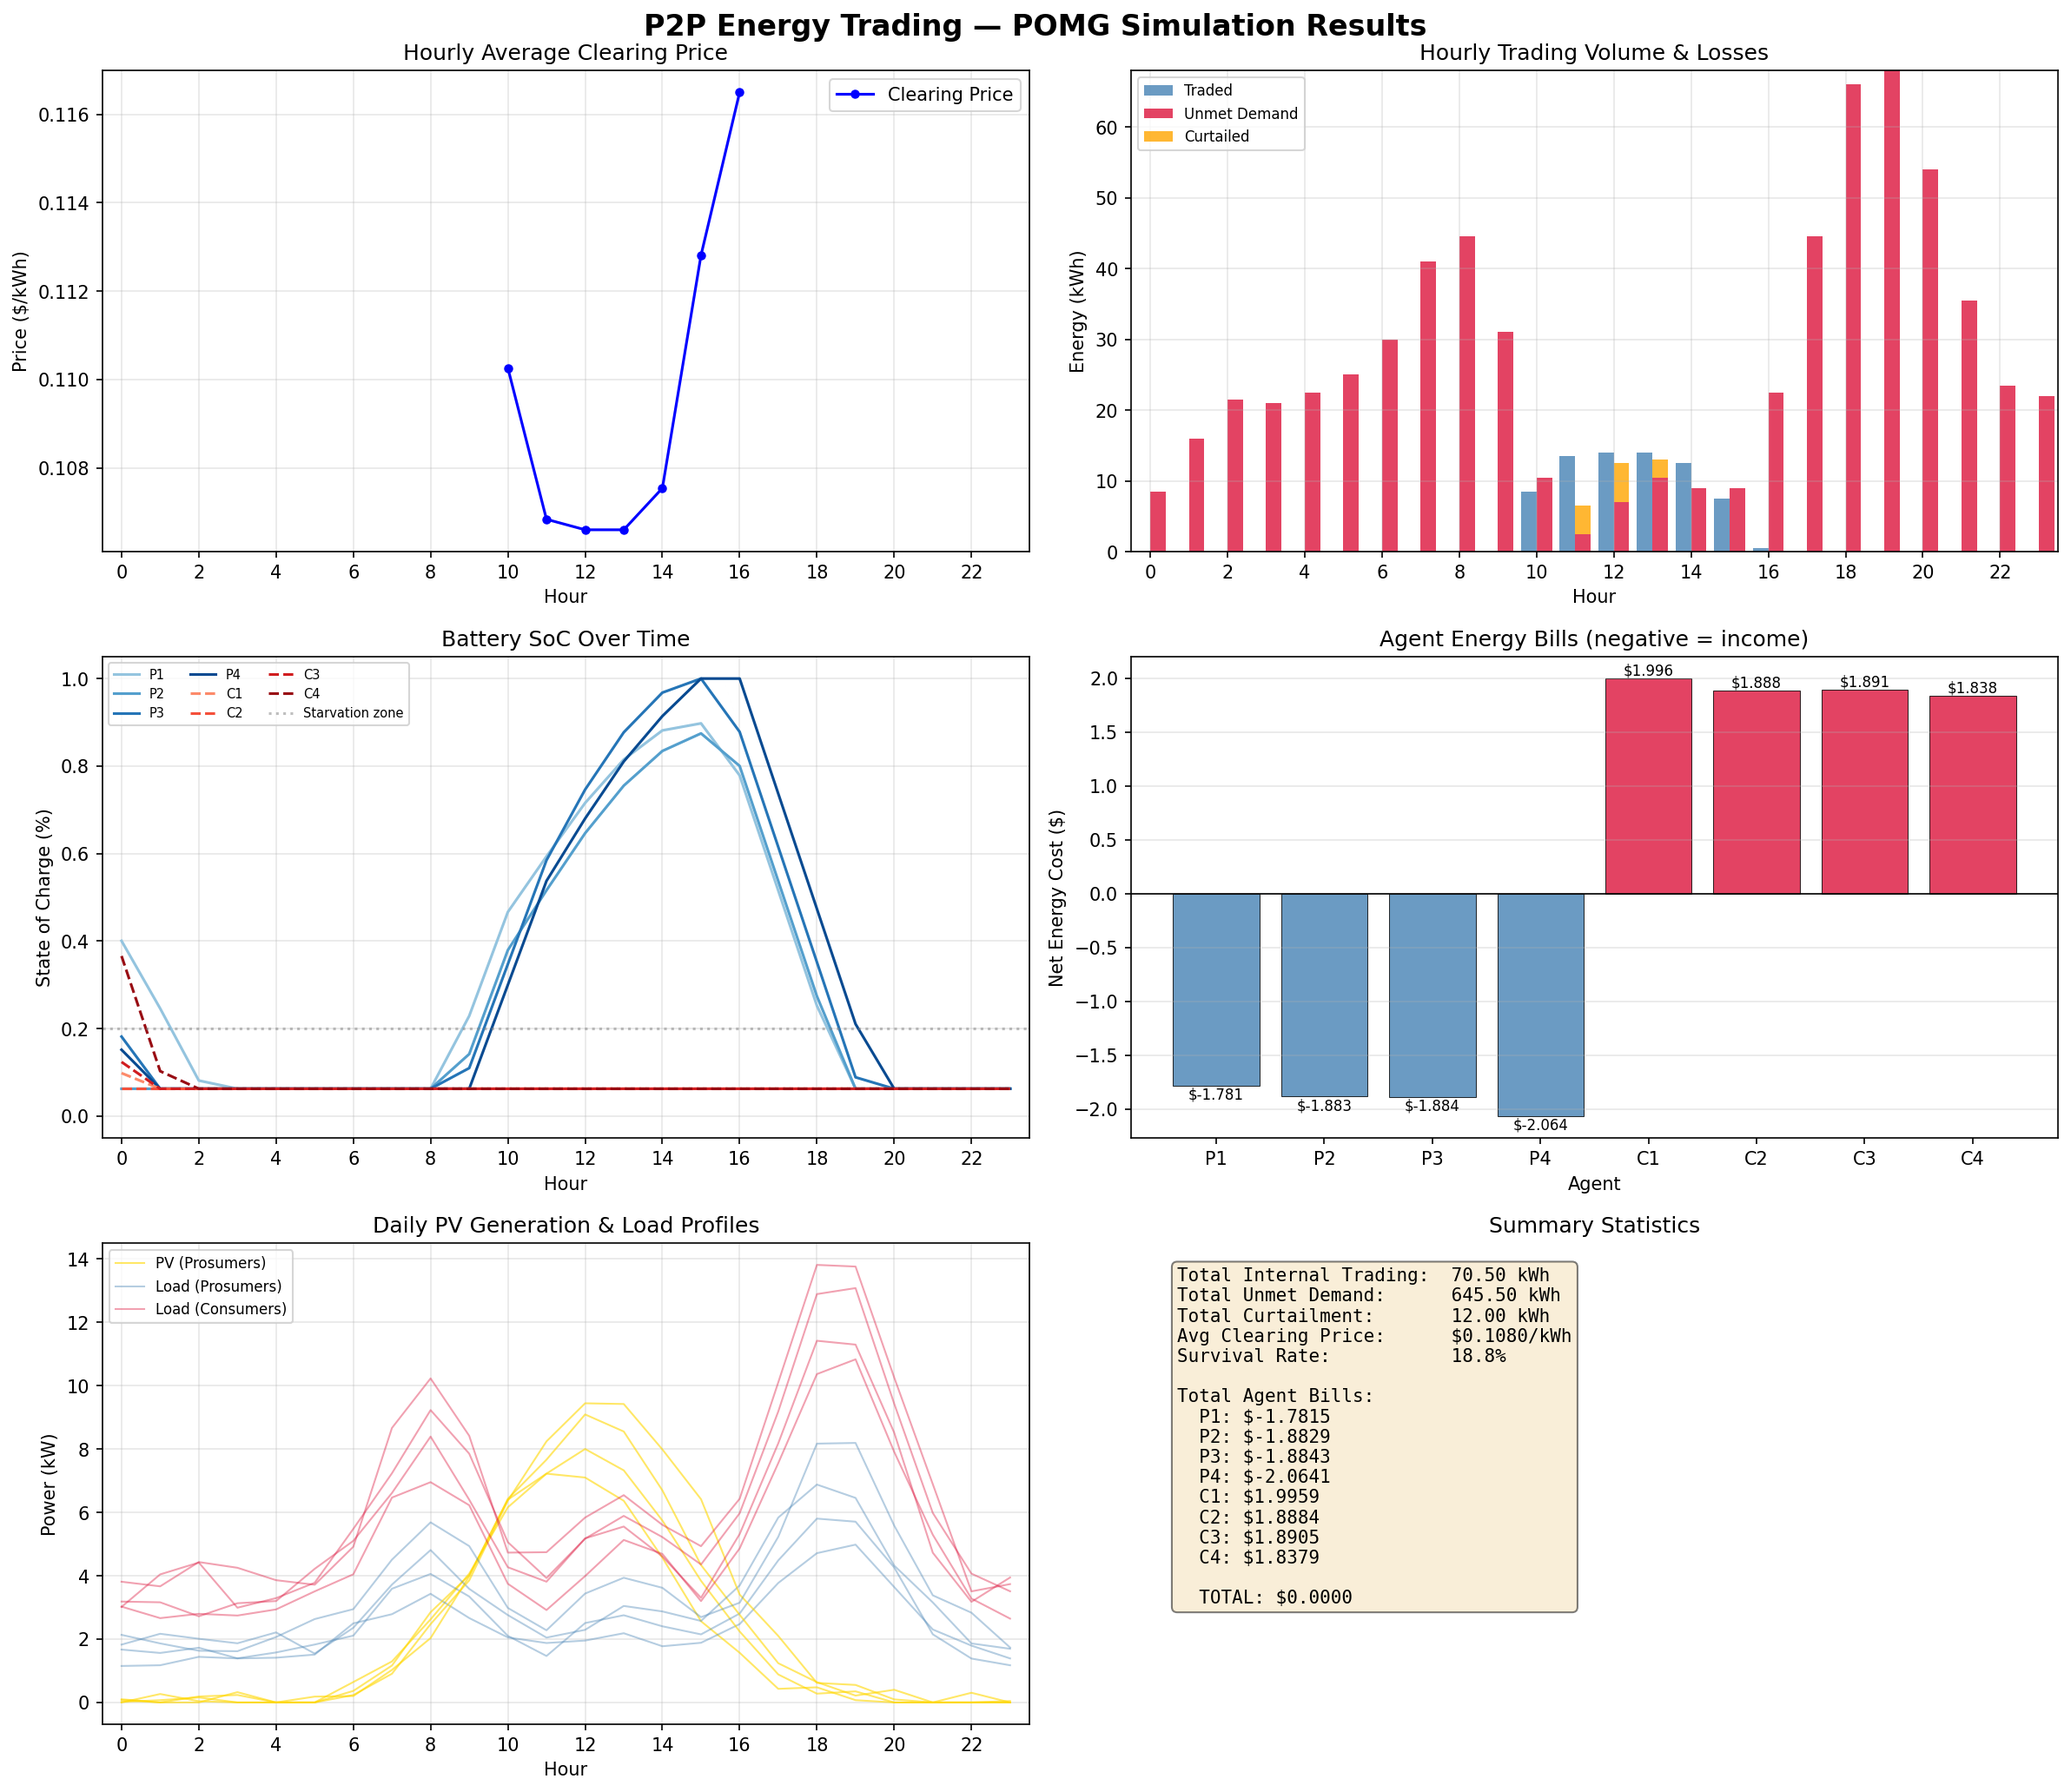
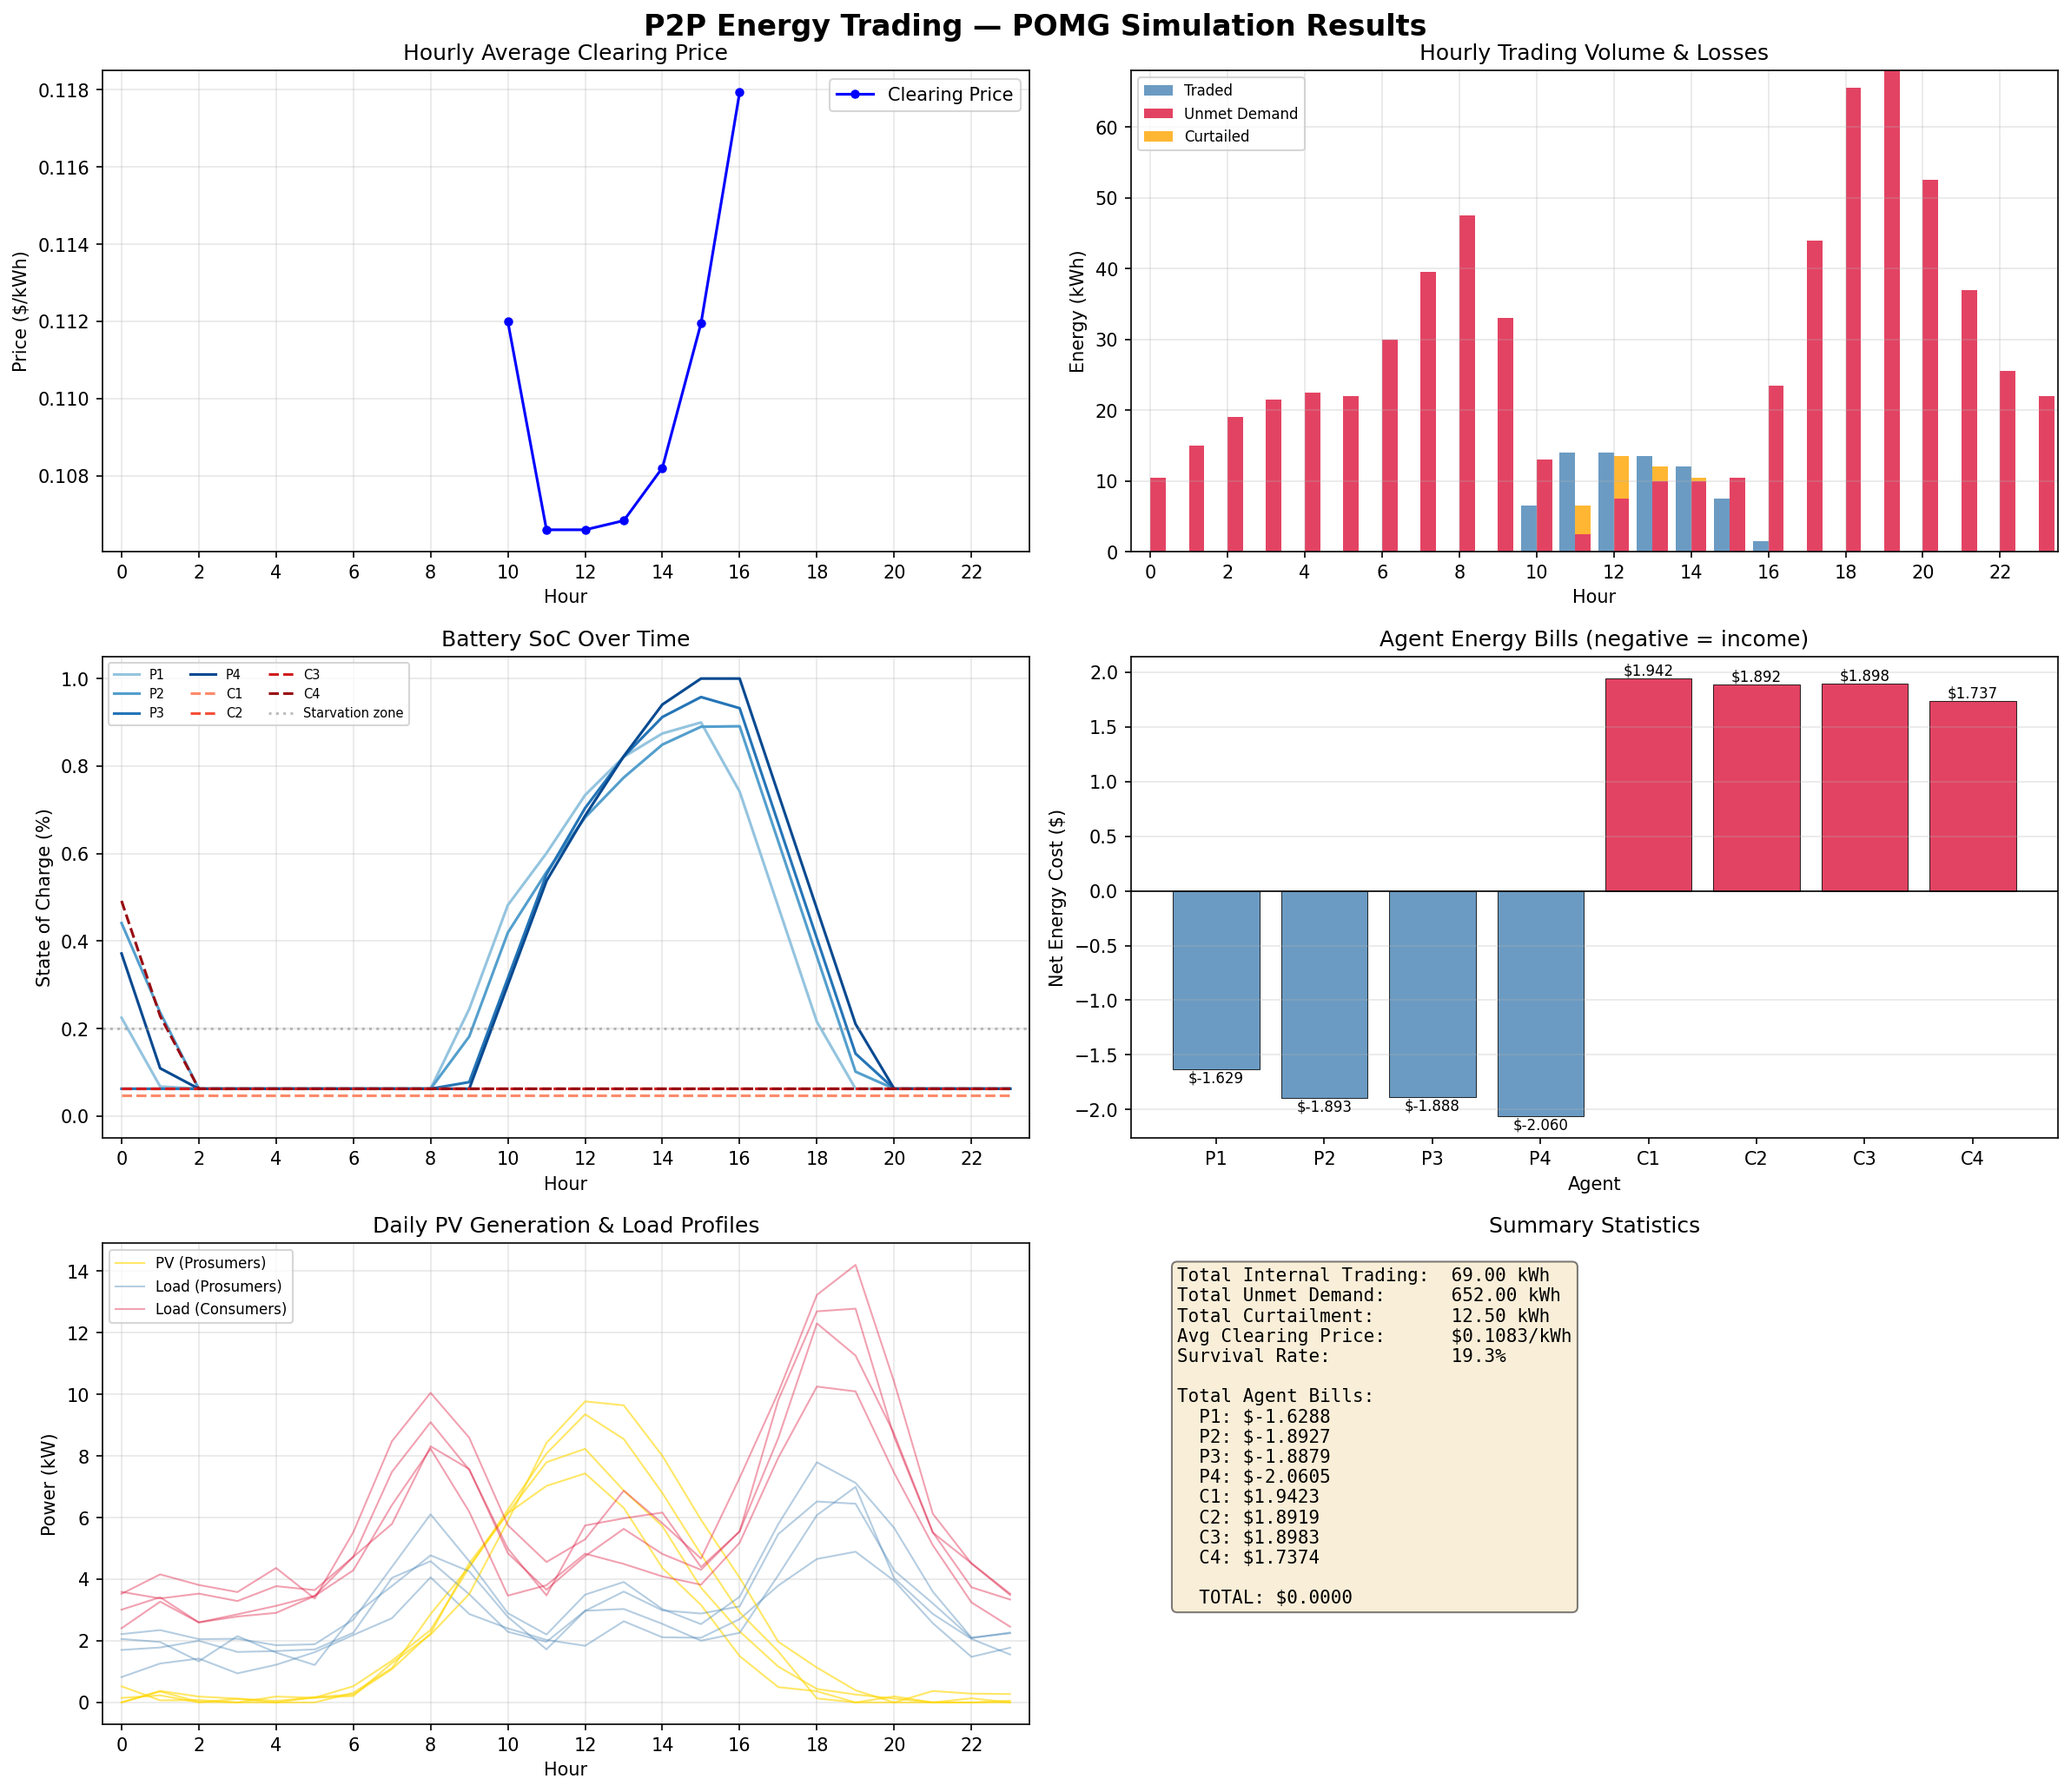
add seed param

diff --git a/main.py b/main.py
@@ -10,6 +10,8 @@ Runs a 24-hour simulation day and generates visualization plots:
 6. PV generation and load demand profiles
 """
 
+import sys
+import random
 import numpy as np
 import matplotlib.pyplot as plt
 import matplotlib
@@ -169,20 +171,35 @@ def plot_results(metrics: MetricsCollector, env: EnergyTradingEnv, save_dir: str
 
 
 def main():
-    """Run the P2P energy trading simulation."""
-    
+    """Run the P2P energy trading simulation.
+
+    Usage:
+        python main.py          # random seed
+        python main.py 42       # fixed seed 42
+    """
+    if len(sys.argv) > 1:
+        try:
+            seed = int(sys.argv[1])
+        except ValueError:
+            print(f"Error: seed must be an integer, got '{sys.argv[1]}'")
+            sys.exit(1)
+    else:
+        seed = random.randint(0, 2**31 - 1)
+
+    print(f"Seed: {seed}")
+
     # Create configuration
-    config = SimConfig()
-    
+    config = SimConfig(seed=seed)
+
     # Create environment
     env = EnergyTradingEnv(config)
-    
+
     # Run simulation
     metrics = env.run_day()
-    
+
     # Generate plots
     plot_results(metrics, env, save_dir=".")
-    
+
     print("\nSimulation complete!")
 
 
